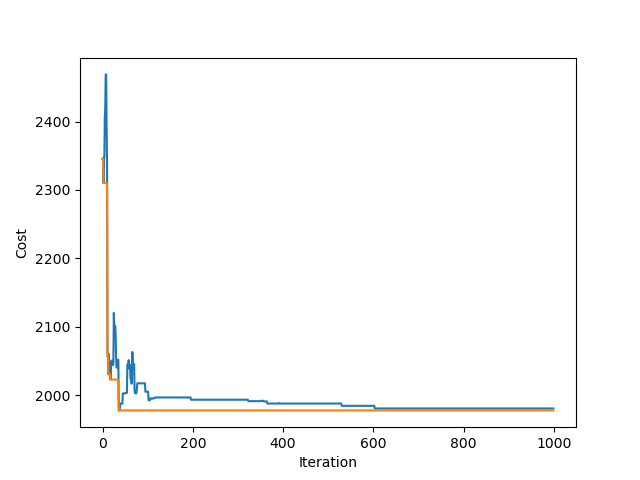
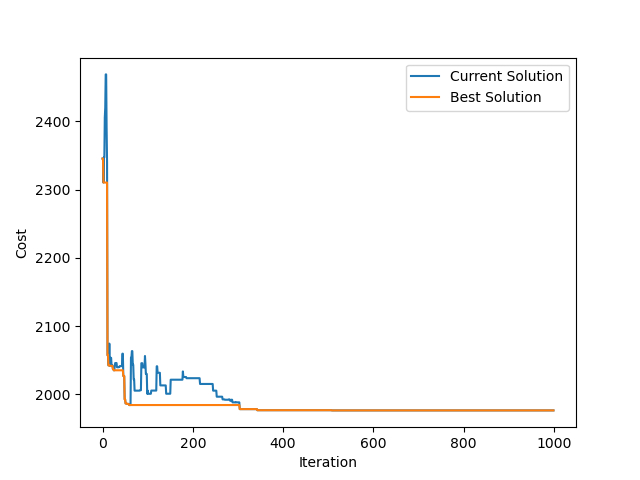
plot fix

diff --git a/ALNS.py b/ALNS.py
@@ -243,11 +243,10 @@ class ALNS:
         """
         Method that plots the solution trend
         """
-        plt.figure()
         plt.plot(self.currentSolutionTrend, label='Current Solution')
         plt.plot(self.bestSolutionTrend, label='Best Solution')
         plt.ylabel('Cost')
         plt.xlabel('Iteration')
-        plt.savefig('Plots/ALNS.png')
         plt.legend()
+        plt.savefig('Plots/ALNS.png')
         plt.close()
